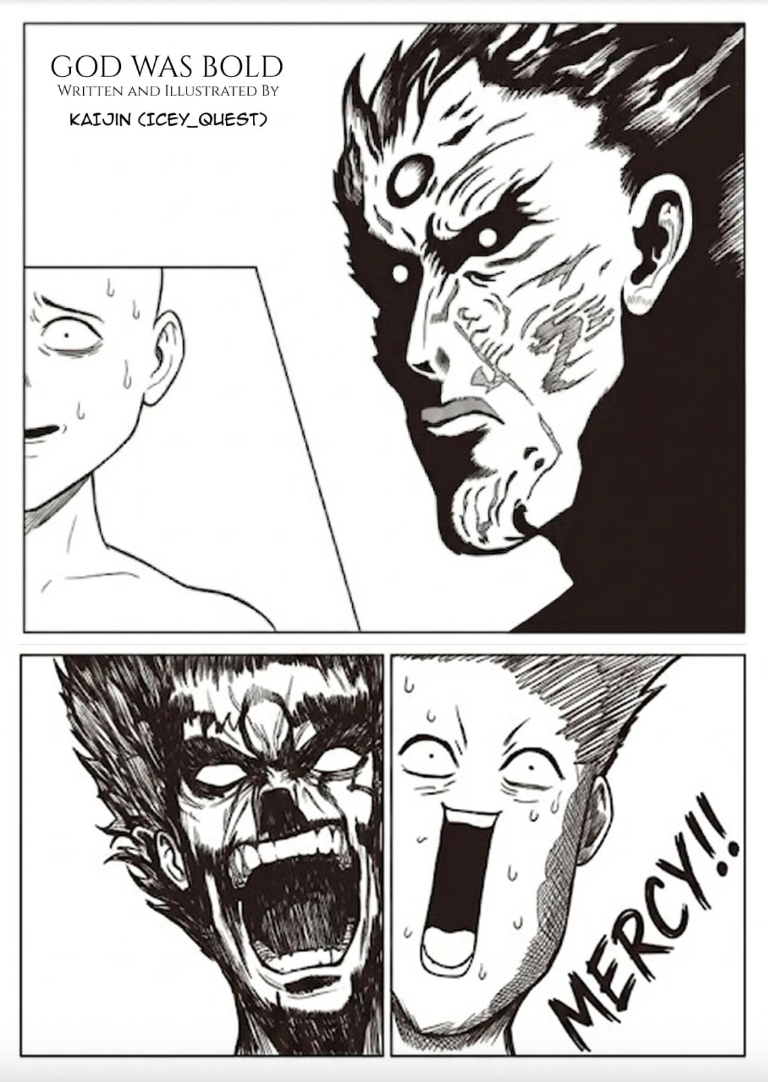
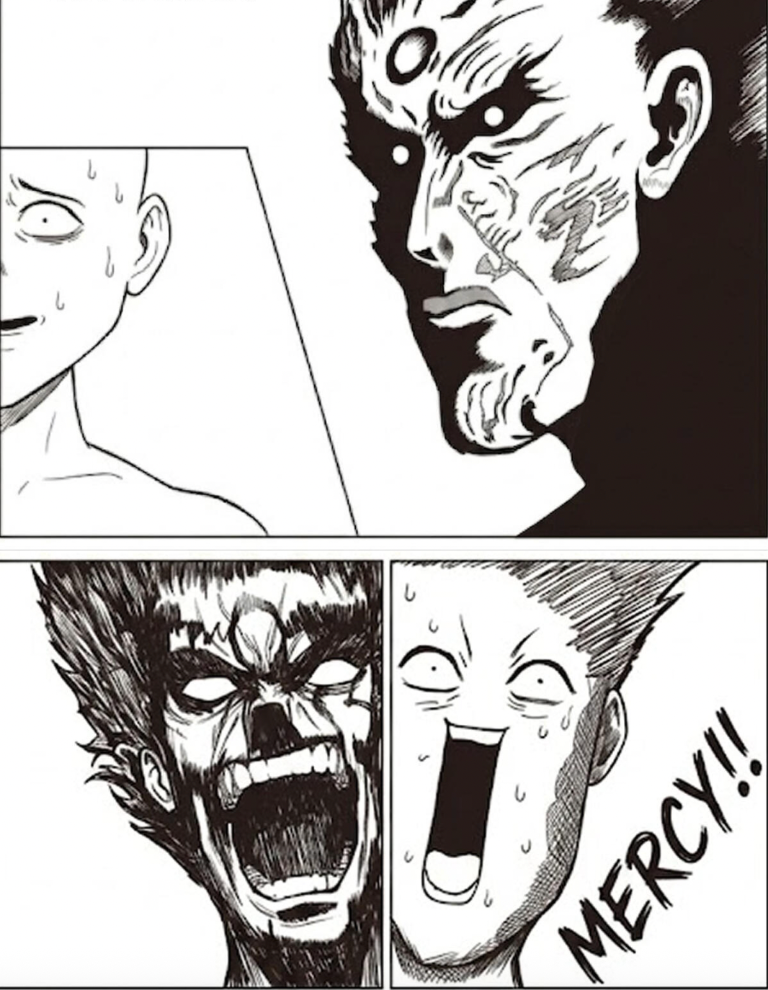
Use final About section artwork

diff --git a/styles.css b/styles.css
@@ -196,7 +196,7 @@ blockquote p { font: 400 clamp(26px, 3.3vw, 44px)/1.35 var(--serif); letter-spac
 blockquote cite { color: var(--muted); font: 10px var(--mono); letter-spacing: .07em; text-transform: uppercase; }
 
 .section-about { display: grid; grid-template-columns: .85fr 1.15fr; gap: 10%; align-items: center; }
-.about-portrait { min-height: 0; aspect-ratio: 768 / 1082; position: relative; overflow: hidden; background: #171715; }
+.about-portrait { min-height: 0; aspect-ratio: 768 / 990; position: relative; overflow: hidden; background: #171715; }
 .about-portrait img { position: absolute; inset: 0; width: 100%; height: 100%; object-fit: cover; }
 .about-portrait > span { position: absolute; z-index: 1; left: 24px; bottom: 22px; color: #e4e1db; font: 11px var(--mono); letter-spacing: .08em; text-transform: uppercase; }
 .about-copy .section-label { margin-bottom: 44px; }
